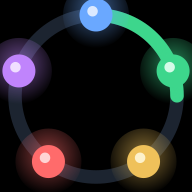
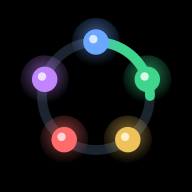
fix: inset dial so circular masks don't clip orbs (#23)
Keep the full-bleed black plate, but shrink the ring/bulbs into the
maskable safe zone with ArchLens-like padding.

diff --git a/design-pack/README.md b/design-pack/README.md
@@ -24,7 +24,8 @@ Brand assets for the GPIO build monitor UI — favicon, logo, apple-touch, and O
 | File | Purpose |
 | --- | --- |
 | `mark.svg` | Rounded logo (in-app brand mark, `logo.png`) |
-| `mark-square.svg` | Full-bleed square (apple-touch / PWA; OS masks corners) |
+| `mark-square.svg` | Full-bleed square (apple-touch / PWA; OS masks corners). Dial
+  stays inside the circular safe zone so orbs aren’t clipped. |
 | `favicon.svg` | Tab icon — **opaque full-bleed plate** (no rounded alpha; Android
   shortcuts composite transparent corners onto white) |
 | `social-share.svg` | Open Graph / Twitter card (1200×630) |
